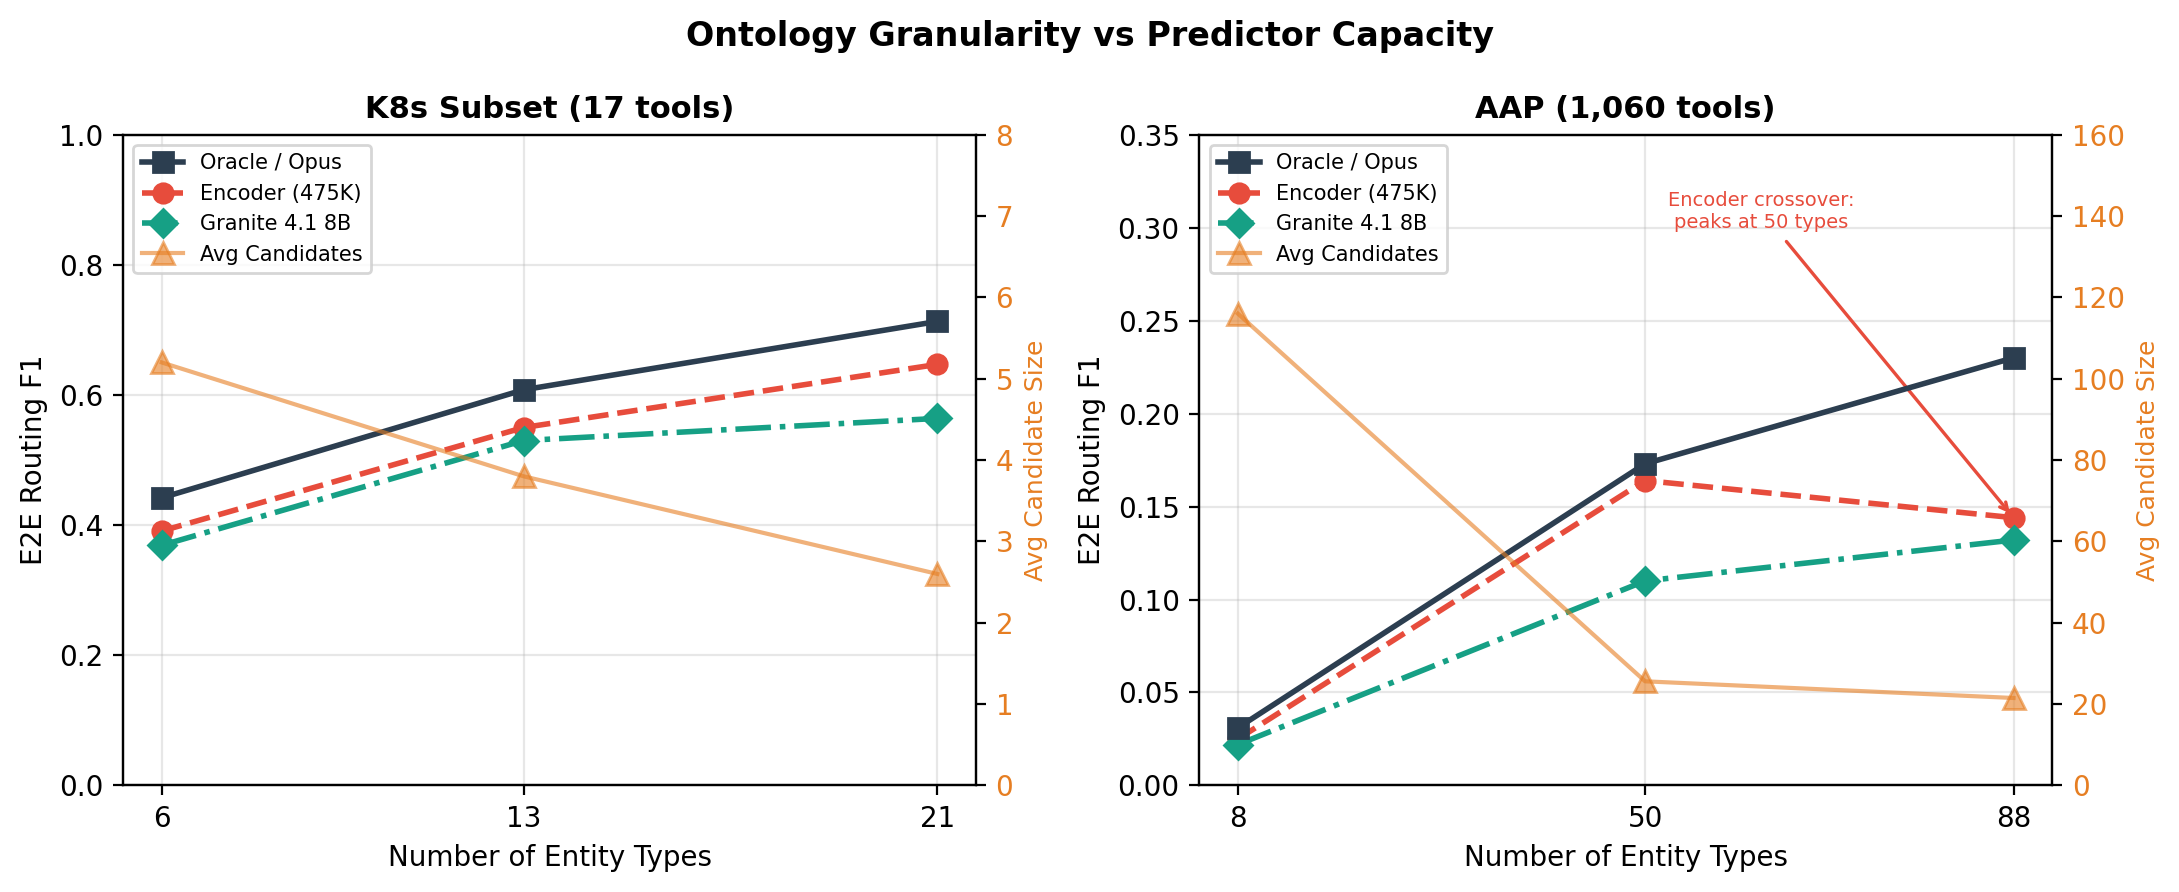
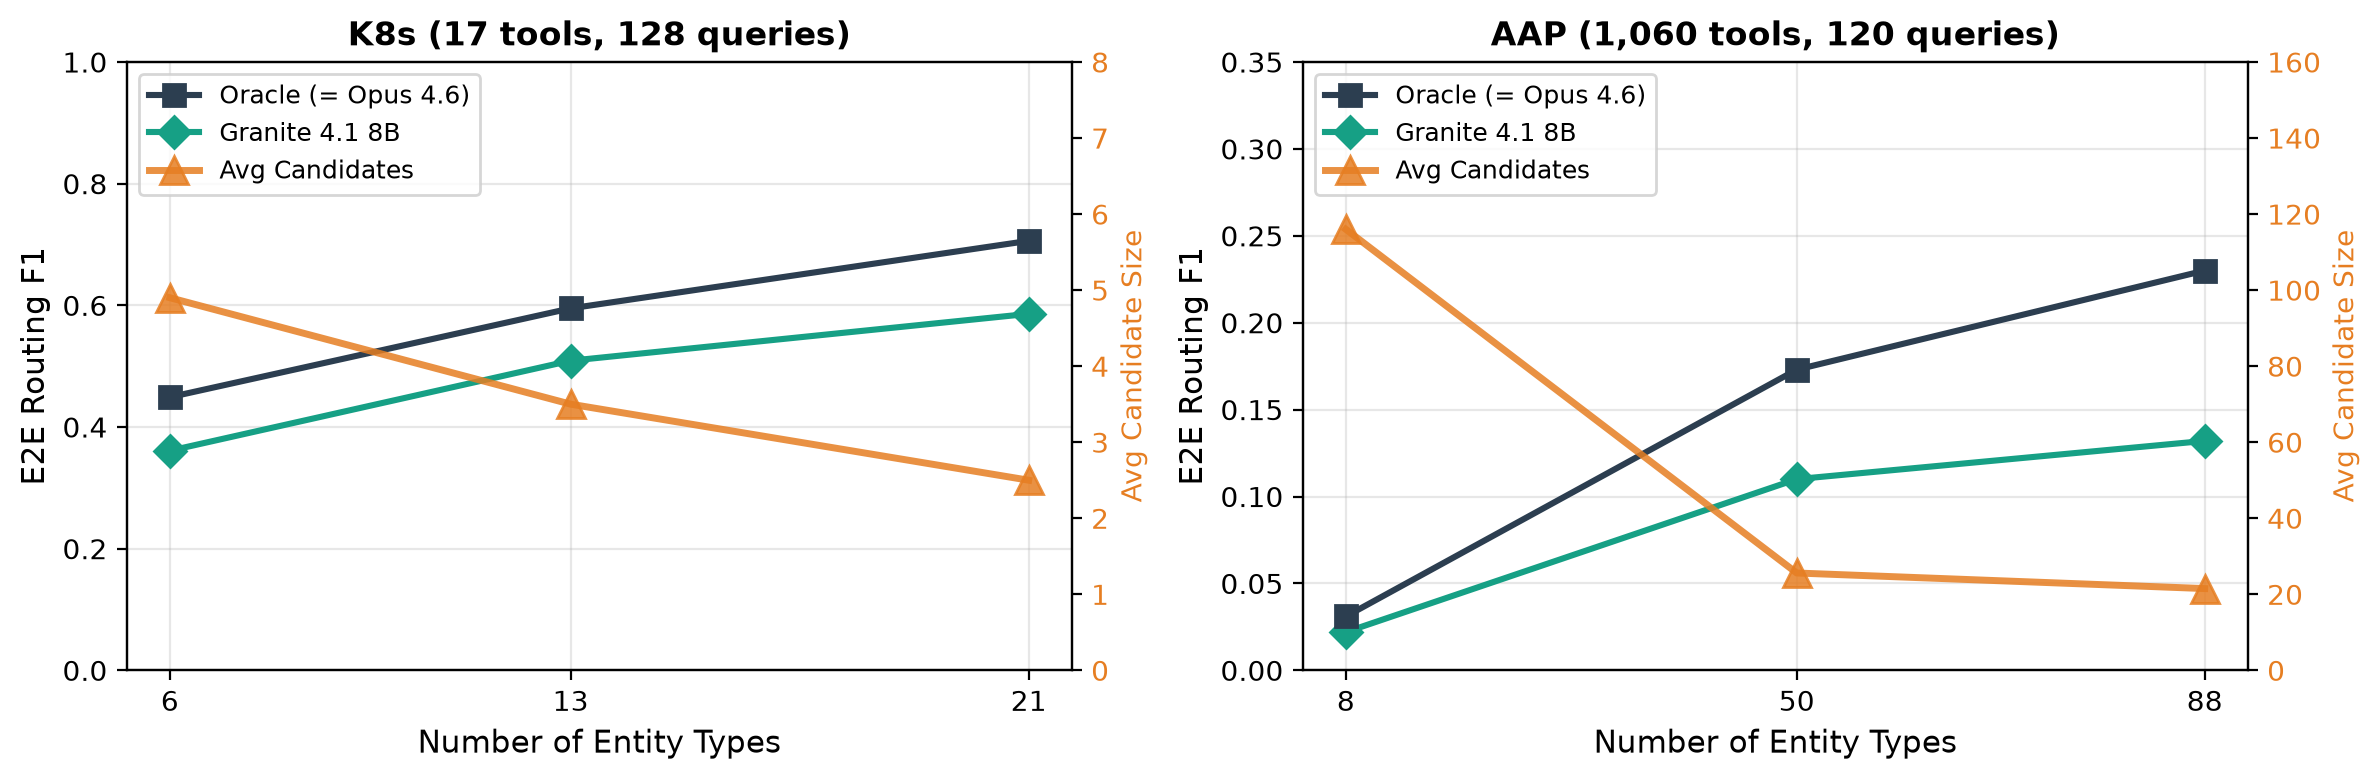
Revise §4.4 ontology, §5 discussion, and §6 conclusion
Rewrite ontology section with research question framing, split into
mechanism/trade-off/design-parameter paragraphs. Rewrite discussion
with semantic vs compositional reasoning structure, add prediction
accuracy and graph quality paragraphs. Convert limitations to bullet
points. Update all Opus references to Opus 4.6, soften causal claims,
update Figure 3 styling.

Changed region(s): [[0.0, 0.0, 0.9986, 0.9846], [0.749, 0.2154, 0.8426, 0.2769]]

diff --git a/docs/paper_v3/latex/main.tex b/docs/paper_v3/latex/main.tex
@@ -23,6 +23,7 @@
 \usepackage{xurl}
 \usepackage{placeins}
 \usepackage{float}
+\usepackage{enumitem}
 \usepackage{algorithm}
 \usepackage{algorithmic}
 
@@ -211,18 +212,18 @@ At production scale, direct tool selection incurs substantial prompt overhead. P
   \label{tab:production}
   \begin{tabular}{lcccc}
     \toprule
-    \textbf{Strategy} & \textbf{Recall} & \textbf{Prompt Tokens} & \textbf{Hallucinated Tools} & \textbf{Latency} \\
+    \textbf{Strategy} & \textbf{Recall} & \textbf{Prompt Tok.} & \textbf{Hallucinations} & \textbf{Latency} \\
     \midrule
     Direct selection         & 0.58          & 25,433  & 10  & ---        \\
     TCR + Granite 8B         & 0.42          & 66      & 0   & 6,579\,ms  \\
-    TCR + Opus               & \textbf{1.00} & \textbf{66} & \textbf{0} & 2,100\,ms  \\
+    TCR + Opus 4.6            & \textbf{1.00} & \textbf{66} & \textbf{0} & 2,100\,ms  \\
     \bottomrule
   \end{tabular}
 \end{table}
 
-Table~\ref{tab:production} shows the comparison. TCR replaces a 25,433-token tool catalog with a 66-token entity-type prompt---a 99.7\% reduction. The average candidate set shrinks to 6.1 tools, a 99.4\% reduction from 1,060. Direct selection produced 10 hallucinated tool invocations across 120 queries, whereas TCR produced zero, reflecting TCR's structural guarantee that only registered tools can be returned. Recall depends on predictor capacity: Granite 8B achieves 0.42 recall (primarily limited by its 61\% entity-type prediction accuracy at 50 types), while Opus achieved 100\% type-prediction accuracy on this benchmark and 1.00 recall---outperforming direct selection in both recall and hallucinated tool invocations while requiring only 66 prompt tokens. Latency is dominated by the entity-type prediction LLM call rather than graph search, whose runtime is negligible. Figure~\ref{fig:scale} illustrates the simultaneous reduction in candidate set size and prompt tokens enabled by TCR. More broadly, TCR shifts the scaling bottleneck from tool catalogs to semantic type prediction: prompt size grows with the number of entity types rather than the number of registered tools.
+Table~\ref{tab:production} shows the comparison. TCR replaces a 25,433-token tool catalog with a 66-token entity-type prompt---a 99.7\% reduction. The average candidate set shrinks to 6.1 tools, a 99.4\% reduction from 1,060. Direct selection produced 10 hallucinated tool invocations across 120 queries, whereas TCR produced zero, reflecting TCR's structural guarantee that only registered tools can be returned. Recall depends on predictor capacity: Granite 8B achieves 0.42 recall (primarily limited by its 61\% entity-type prediction accuracy at 50 types), while Opus 4.6 achieved 100\% type-prediction accuracy on this benchmark and 1.00 recall---outperforming direct selection in both recall and hallucinated tool invocations while requiring only 66 prompt tokens. Latency is dominated by the entity-type prediction LLM call rather than graph search, whose runtime is negligible. Figure~\ref{fig:scale} illustrates the simultaneous reduction in candidate set size and prompt tokens enabled by TCR. More broadly, TCR shifts the scaling bottleneck from tool catalogs to semantic type prediction: prompt size grows with the number of entity types rather than the number of registered tools.
 
-\begin{figure}[H]
+\begin{figure}[t!]
   \centering
   \includegraphics[width=\textwidth]{figures/2_scale.pdf}
   \caption{Production-scale routing on the AAP MCP Server. TCR reduces the average candidate set from 1,060 tools to 6.1 (99.4\%) and the prompt from 25,433 tokens to 66 entity-type tokens (99.7\%).}
@@ -232,7 +233,7 @@ Table~\ref{tab:production} shows the comparison. TCR replaces a 25,433-token too
 \FloatBarrier
 \subsection{Ontology Granularity Experiment}
 
-The results above treat the type system as fixed. But how sensitive is routing quality to the granularity of the ontology? To find out, we constructed three ontology variants---coarse, medium, and fine---on both a K8s subset (17 tools, 128 queries) and AAP (1,060 tools, 120 queries), varying only the type system while holding tools and queries constant. On K8s, coarse uses 6 entity types (e.g., \texttt{Pod}, \texttt{Resource}), medium splits these into 13 types (distinguishing \texttt{Deployment}, \texttt{Service}, \texttt{Node}, etc.), and fine introduces 21 types with detail variants (\texttt{PodDetail}, \texttt{ServiceDetail}, \texttt{PodCreation}). On AAP, the three levels have 8, 50, and 88 types. Each query is annotated with source and target types for all three granularity levels; the same query text maps to different type-pairs depending on the ontology. Granite 4.1 8B and Claude Opus receive 10 few-shot examples per granularity level, automatically selected from training data with stratified sampling across source--target pairs to maximize type-pair coverage.
+A key design question is how fine-grained the entity ontology should be. The results above treat the type system as fixed. But how sensitive is routing quality to the granularity of the ontology? To find out, we constructed three ontology variants---coarse, medium, and fine---on both a K8s subset (17 tools, 128 queries) and AAP (1,060 tools, 120 queries), varying only the type system while holding tools and queries constant. On K8s, coarse uses 6 entity types (e.g., \texttt{Pod}, \texttt{Resource}), medium splits these into 13 types (distinguishing \texttt{Deployment}, \texttt{Service}, \texttt{Node}, etc.), and fine introduces 21 types with detail variants (\texttt{PodDetail}, \texttt{ServiceDetail}, \texttt{PodCreation}). On AAP, the three levels have 8, 50, and 88 types. Each query is annotated with source and target types for all three granularity levels; the same query text maps to different type-pairs depending on the ontology. Each predictor receives 10 automatically selected few-shot examples for each granularity level.
 
 \begin{table}[htbp]
   \centering
@@ -252,7 +253,7 @@ The results above treat the type system as fixed. But how sensitive is routing q
     & Exact match   & \textbf{0.773} & 0.750          & 0.711          \\
     & F1        & 0.361 & 0.509          & \textbf{0.586} \\
     \midrule
-    \multirow{2}{*}{Opus}
+    \multirow{2}{*}{Opus 4.6}
     & Exact match   & \textbf{1.000} & \textbf{1.000} & \textbf{1.000} \\
     & F1        & 0.449 & 0.595          & \textbf{0.706} \\
     \bottomrule
@@ -261,7 +262,7 @@ The results above treat the type system as fixed. But how sensitive is routing q
 
 \begin{table}[htbp]
   \centering
-  \caption{Granularity experiment on AAP (1,060 tools, 120 queries). Granite 8B exact match drops to 35\% at 88 types, yet F1 still improves slightly. Opus maintains oracle-level performance throughout.}
+  \caption{Granularity experiment on AAP (1,060 tools, 120 queries). Granite 8B exact match drops to 35\% at 88 types, yet F1 still improves slightly. Opus 4.6 maintains oracle-level performance throughout.}
   \label{tab:gran-aap}
   \small
   \begin{tabular}{llccc}
@@ -277,7 +278,7 @@ The results above treat the type system as fixed. But how sensitive is routing q
     & Exact match   & 0.608  & \textbf{0.608} & 0.350          \\
     & F1        & 0.022  & 0.110          & \textbf{0.132} \\
     \midrule
-    \multirow{2}{*}{Opus}
+    \multirow{2}{*}{Opus 4.6}
     & Exact match   & \textbf{1.000} & \textbf{1.000} & \textbf{1.000} \\
     & F1        & 0.031  & 0.173          & \textbf{0.230} \\
     \bottomrule
@@ -287,15 +288,19 @@ The results above treat the type system as fixed. But how sensitive is routing q
 \begin{figure}[htbp]
   \centering
   \includegraphics[width=\textwidth]{figures/3_crossover.pdf}
-  \caption{Granularity vs.\ routing quality on K8s (left, 17 tools, 128 queries) and AAP (right, 1,060 tools, 120 queries). Both Granite 8B and Opus improve with finer types; Opus matches oracle F1 exactly. On AAP, the gap between Granite and oracle widens as exact match drops to 35\% at 88 types.}
+  \caption{K8s (left, 17 tools, 128 queries); AAP (right, 1,060 tools, 120 queries).}
   \label{fig:crossover}
 \end{figure}
 
-Tables~\ref{tab:gran-k8s} and~\ref{tab:gran-aap} compare two predictors of different capacity---Granite 4.1 8B and Claude Opus---against the oracle upper bound. With a perfect predictor (oracle rows), finer types are strictly better: candidate sets shrink and precision rises. The question is whether the predictor can keep up as the type vocabulary grows.
+Tables~\ref{tab:gran-k8s} and~\ref{tab:gran-aap} compare two predictors of different capacity---Granite 4.1 8B and Claude Opus 4.6---against the oracle upper bound. With a perfect predictor (oracle rows), finer ontologies consistently improve the oracle upper bound by reducing candidate ambiguity. The question is whether the predictor can keep up as the type vocabulary grows.
 
-On K8s (Figure~\ref{fig:crossover}, left), both predictors improve monotonically with finer types, though the gap between Granite and the oracle widens: exact match drops from 77\% to 71\% as the vocabulary grows from 6 to 21 types. Opus matches oracle performance exactly (100\% exact match across all granularities). On AAP (Figure~\ref{fig:crossover}, right), the effect is more pronounced: Granite exact match drops from 61\% to 35\% at 88 types, though F1 still improves marginally (0.110 $\rightarrow$ 0.132) because the narrower candidate sets compensate. Opus, with sufficient capacity to classify all 88 types correctly, tracks the oracle throughout.
+Figure~\ref{fig:crossover} reveals the two opposing effects of ontology granularity. Increasing the number of entity types consistently reduces candidate set size, thereby reducing false positives and increasing routing precision. At the same time, the larger label space makes semantic prediction more difficult for smaller models. On K8s (Figure~\ref{fig:crossover}, left), both predictors improve monotonically with finer types, though the gap between Granite and the oracle widens: exact match drops from 77\% to 71\% as the vocabulary grows from 6 to 21 types. Opus 4.6 matches oracle performance exactly (100\% exact match across all granularities). On AAP (Figure~\ref{fig:crossover}, right), the effect is more pronounced: Granite exact match drops from 61\% to 35\% at 88 types, yet despite substantially lower prediction accuracy, finer ontologies still improve routing quality (F1: 0.110 $\rightarrow$ 0.132) because they generate much smaller candidate sets. Opus 4.6, with sufficient capacity to classify all 88 types correctly, tracks the oracle throughout. This illustrates the trade-off between ontology expressiveness and predictor capacity.
 
-The mechanism: finer types reduce tools per type-pair ($7.5 \rightarrow 3.6 \rightarrow 3.2$ on AAP), but each new type needs few-shot coverage. With only 10 examples, Granite struggles to distinguish the 38 fine types added to AAP. The gap between Granite and Opus shows that the optimal granularity depends on predictor capacity: a sufficiently capable model always benefits from finer types.
+The mechanism is straightforward: finer ontologies reduce the number of tools associated with each source--target type pair ($7.5 \rightarrow 3.6 \rightarrow 3.2$ on AAP), producing smaller candidate sets and fewer false positives. However, each additional entity type must be learned by the predictor. With only 10 few-shot examples per granularity level, Granite struggles to distinguish the 38 fine-grained types added to AAP.
+
+The gap between Granite and Opus 4.6 illustrates the key design trade-off. A sufficiently capable predictor consistently benefits from finer ontologies, whereas weaker predictors eventually become limited by the expanded label space. Ontology granularity is therefore not a fixed property of the API, but a tunable design parameter that should be matched to predictor capacity.
+
+More broadly, ontology granularity controls two opposing effects. Increasing granularity systematically reduces candidate set size, eliminating structurally irrelevant tools and improving routing precision. At the same time, it enlarges the semantic prediction space, making entity-type classification more difficult. The optimal ontology therefore balances these two forces: strong predictors benefit from fine-grained ontologies that maximize precision, while weaker predictors may prefer coarser abstractions that preserve prediction accuracy.
 
 % =============================================================================
 % Discussion
@@ -303,11 +308,25 @@ The mechanism: finer types reduce tools per type-pair ($7.5 \rightarrow 3.6 \rig
 
 \section{Discussion}
 
-\textbf{Why is type prediction easier than tool selection?} Users say ``pods,'' ``credentials,'' or ``inventories''---entity types, not tool names like \texttt{list\_namespaced\_pods\_v1}. Because entity types align with how queries are phrased, predicting among tens of semantic types is substantially easier than selecting among hundreds of tool names. The consistent F1 improvement across all 20 model--domain combinations (Table~\ref{tab:main}) confirms this: the smaller target space ($|E| \ll |T|$) and graph reachability constraints reduce effective difficulty. Multi-hop queries benefit most: TCR predicts two types regardless of chain length.
+\textbf{Semantic vs.\ compositional reasoning.} The central finding of this work is that semantic prediction and compositional reasoning have fundamentally different computational properties. TCR exploits this asymmetry by asking the LLM to predict only semantic entity types while delegating compositional reasoning to deterministic graph search. Because the semantic space ($|E|$) is typically much smaller than the tool space ($|T|$), TCR shifts the scaling variable from the number of registered tools to the number of semantic entity types.
 
-\textbf{The granularity trade-off.} Finer types narrow candidate sets, but the benefit saturates if the predictor cannot keep up with the growing vocabulary. The practical lever is the ratio of candidate-set improvement to classification degradation. With a sufficiently capable predictor, finer types are always beneficial.
+An important consequence is that semantic prediction cost is independent of workflow length. Whether a query requires one tool or five, the predictor still outputs only a source and target entity type; additional composition is handled entirely by graph traversal.
 
-\textbf{Limitations.} TCR assumes typed API ecosystems; imperative operations without typed inputs/outputs fall outside the formulation. When multiple tools share the same type signature, intent-level disambiguation remains necessary. The current formulation handles only sequential workflows; multi-input dependencies would require hypergraph edges. Recall is bounded by annotation completeness: even with perfect type prediction, tools whose type relationships are not modeled in the graph will be missed. All benchmark queries were author-annotated; independently constructed benchmarks would strengthen the evaluation.
+The effectiveness of TCR therefore depends critically on the accuracy of entity-type prediction. Deterministic graph search can recover only tool chains consistent with the predicted source and target types; the quality of the candidate set is therefore bounded by the accuracy of semantic prediction. The production-scale AAP experiments illustrate this dependence: Granite 4.1 8B achieves lower routing performance than Opus 4.6 primarily because its lower entity-type prediction accuracy produces less accurate candidate sets. Improving the semantic predictor therefore directly improves end-to-end routing performance without modifying the graph search algorithm.
+
+Likewise, routing quality depends on the completeness of the composition graph. As tool ecosystems evolve, the graph must remain synchronized with tool definitions and type annotations to preserve routing quality.
+
+\textbf{The granularity trade-off.} Finer types narrow candidate sets, but the benefit saturates if the predictor cannot keep up with the growing vocabulary. The practical lever is the ratio of candidate-set improvement to classification degradation. With sufficient predictor capacity, finer ontologies consistently improve routing precision by reducing candidate ambiguity.
+
+\textbf{Limitations.}
+\begin{itemize}[leftmargin=*,nosep]
+  \item \emph{Typed APIs.} TCR assumes tools can be represented as typed transformations between entities.
+  \item \emph{Graph maintenance.} Missing or outdated type annotations reduce recall and require the composition graph to remain synchronized with the evolving tool ecosystem.
+  \item \emph{Intent ambiguity.} Multiple tools sharing the same type signature still require semantic disambiguation.
+  \item \emph{Evaluation.} All benchmark queries were author-annotated; independent benchmarks would strengthen the evaluation.
+\end{itemize}
+
+More broadly, TCR suggests that tool routing should be viewed as the composition of semantic prediction and deterministic graph search rather than as a single end-to-end retrieval problem. Decoupling these two components allows advances in semantic prediction and compositional reasoning to proceed independently: semantic prediction can improve as language models advance, while compositional correctness remains deterministic and verifiable through graph search.
 
 % =============================================================================
 % Conclusion

diff --git a/docs/paper_v3/figures.py b/docs/paper_v3/figures.py
@@ -299,13 +299,13 @@ def _crossover_panel(ax, types, oracle_f1, granite_f1,
     c_cands = "#e67e22"
 
     ax.plot(types, oracle_f1, "s-", color=c_oracle, markersize=8,
-            linewidth=2.2, label="Oracle / Opus", zorder=6)
-    ax.plot(types, granite_f1, "D-.", color=c_granite, markersize=8,
+            linewidth=2.2, label="Oracle (= Opus 4.6)", zorder=6)
+    ax.plot(types, granite_f1, "D-", color=c_granite, markersize=8,
             linewidth=2.2, label="Granite 4.1 8B", zorder=5)
 
     ax2 = ax.twinx()
-    ax2.plot(types, candidates, "^-", color=c_cands, markersize=9,
-             linewidth=1.5, alpha=0.6, label="Avg Candidates", zorder=4)
+    ax2.plot(types, candidates, "^-", color=c_cands, markersize=10,
+             linewidth=2.5, alpha=0.85, label="Avg Candidates", zorder=4)
     ax2.set_ylabel("Avg Candidate Size", color=c_cands, fontsize=10)
     ax2.tick_params(axis="y", labelcolor=c_cands)
     ax2.set_ylim(0, cands_ylim)
